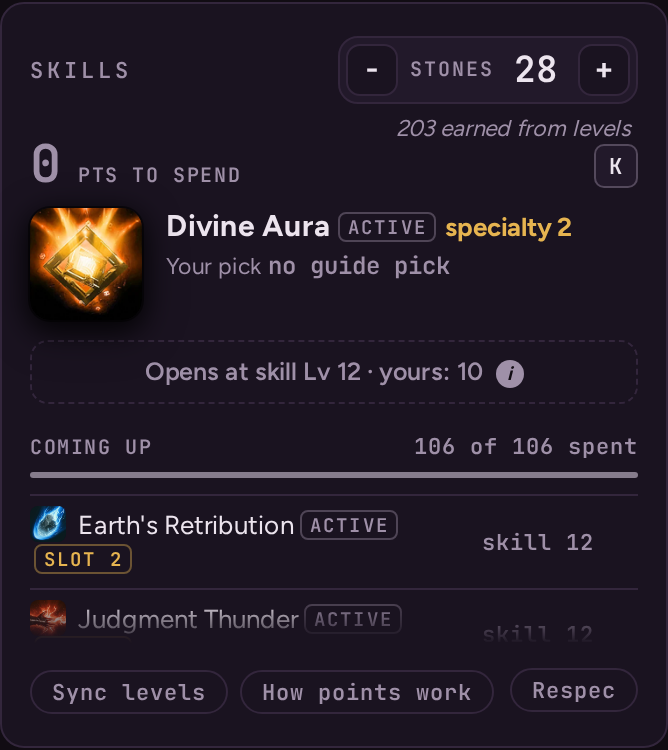
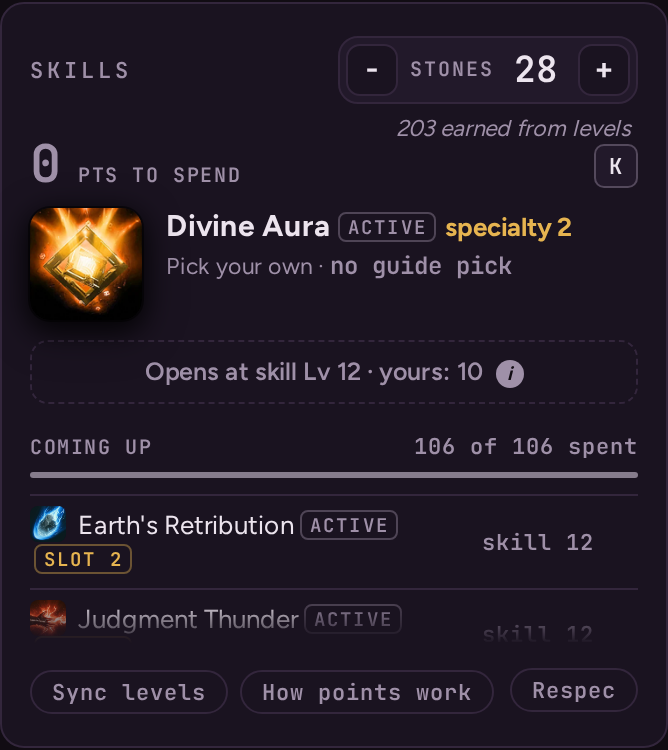
0.9 P15: noPick line reads "Pick your own · no guide pick" (Design Lead review)
"Your pick" next to the tag scanned as one garbled phrase. Same ss-tag and
tooltip; re-took the cleric-lv45-no-pick after shot, caption updated.

Changed region(s): [[0.2395, 0.3373, 0.7784, 0.368]]

diff --git a/src/packs/aion2/cards/nextup-kinds.js b/src/packs/aion2/cards/nextup-kinds.js
@@ -53,7 +53,7 @@ const spSlotSub = x => { const p = specPickOf(char(state), x); if (p) return `Pi
   if (q) return `${open ? `Slot ${x.slot} open · ` : ""}Guide pick: ${q.t}${spPickTag(q)} at skill Lv ${q.lv}`;
   /* a slot the build leaves open on purpose (0.9 P15, noPick): says so, the reason in the tag's tooltip */
   const why = (x.s.noPick || {})[x.slot];
-  if (why) return `${open ? `Slot ${x.slot} open · ` : ""}Your pick <span class="ss-tag" title="${why.replace(/"/g, "&quot;")}">no guide pick</span>`;
+  if (why) return `${open ? `Slot ${x.slot} open · ` : ""}Pick your own · <span class="ss-tag" title="${why.replace(/"/g, "&quot;")}">no guide pick</span>`;
   return `${open ? `Slot ${x.slot} open: pick` : "Pick"} a specialty`; };
 /* A Sealed Dungeon / Stronghold card's tile: the game's map marker on the dark tile (0.6.2 P21), labelled with the place
    type; the old emoji when the file can't load */
